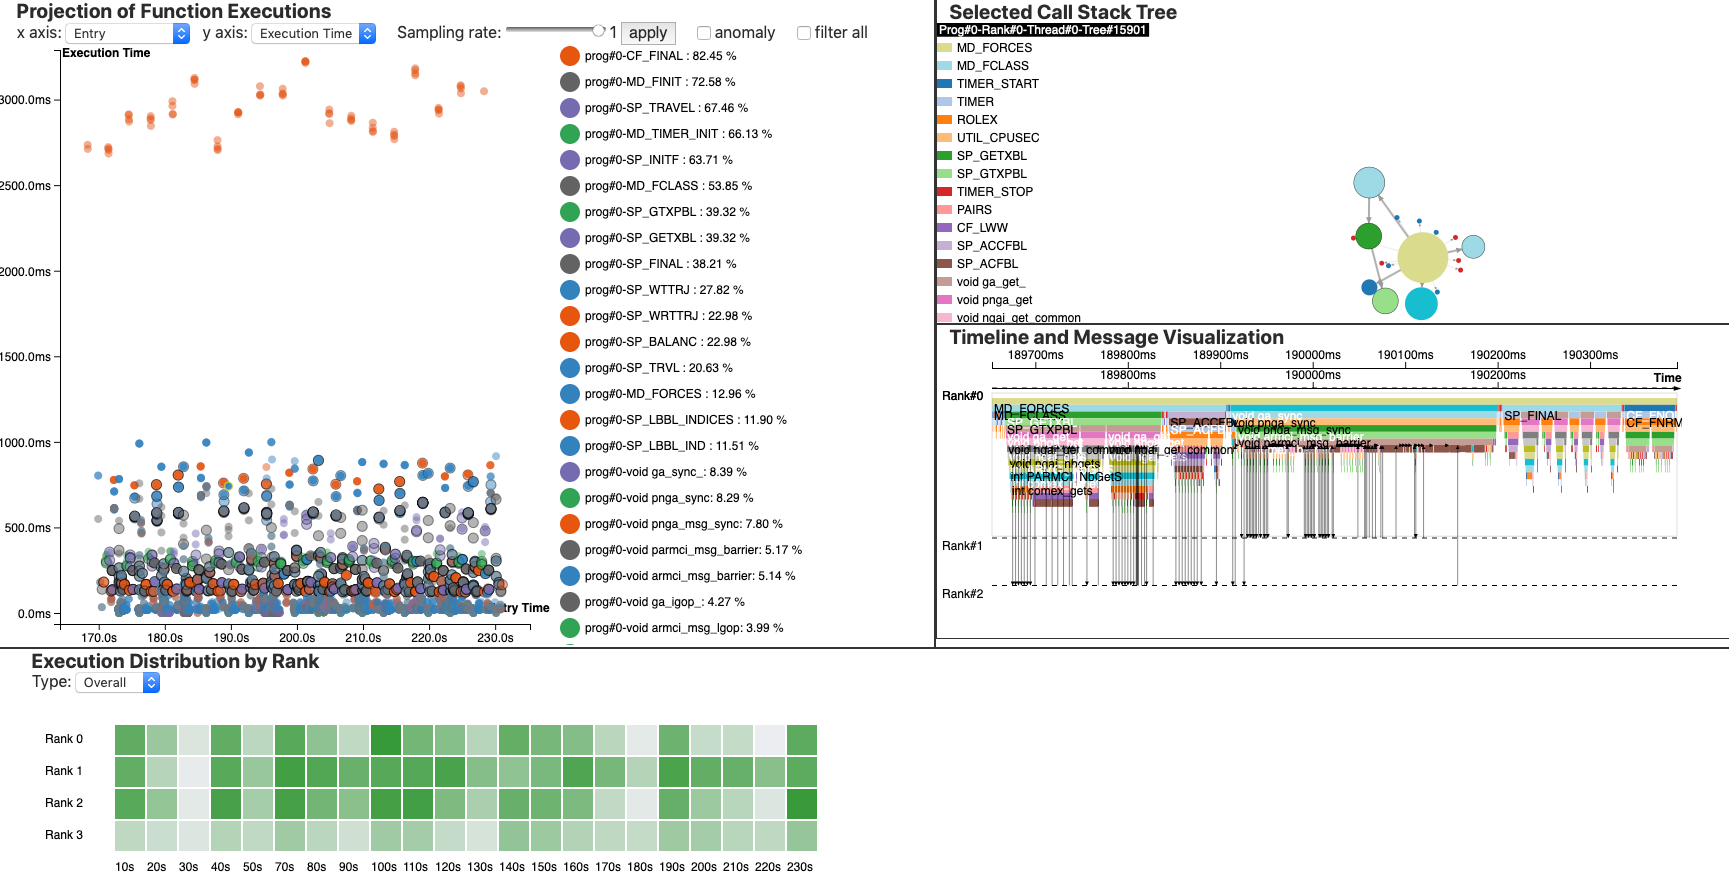
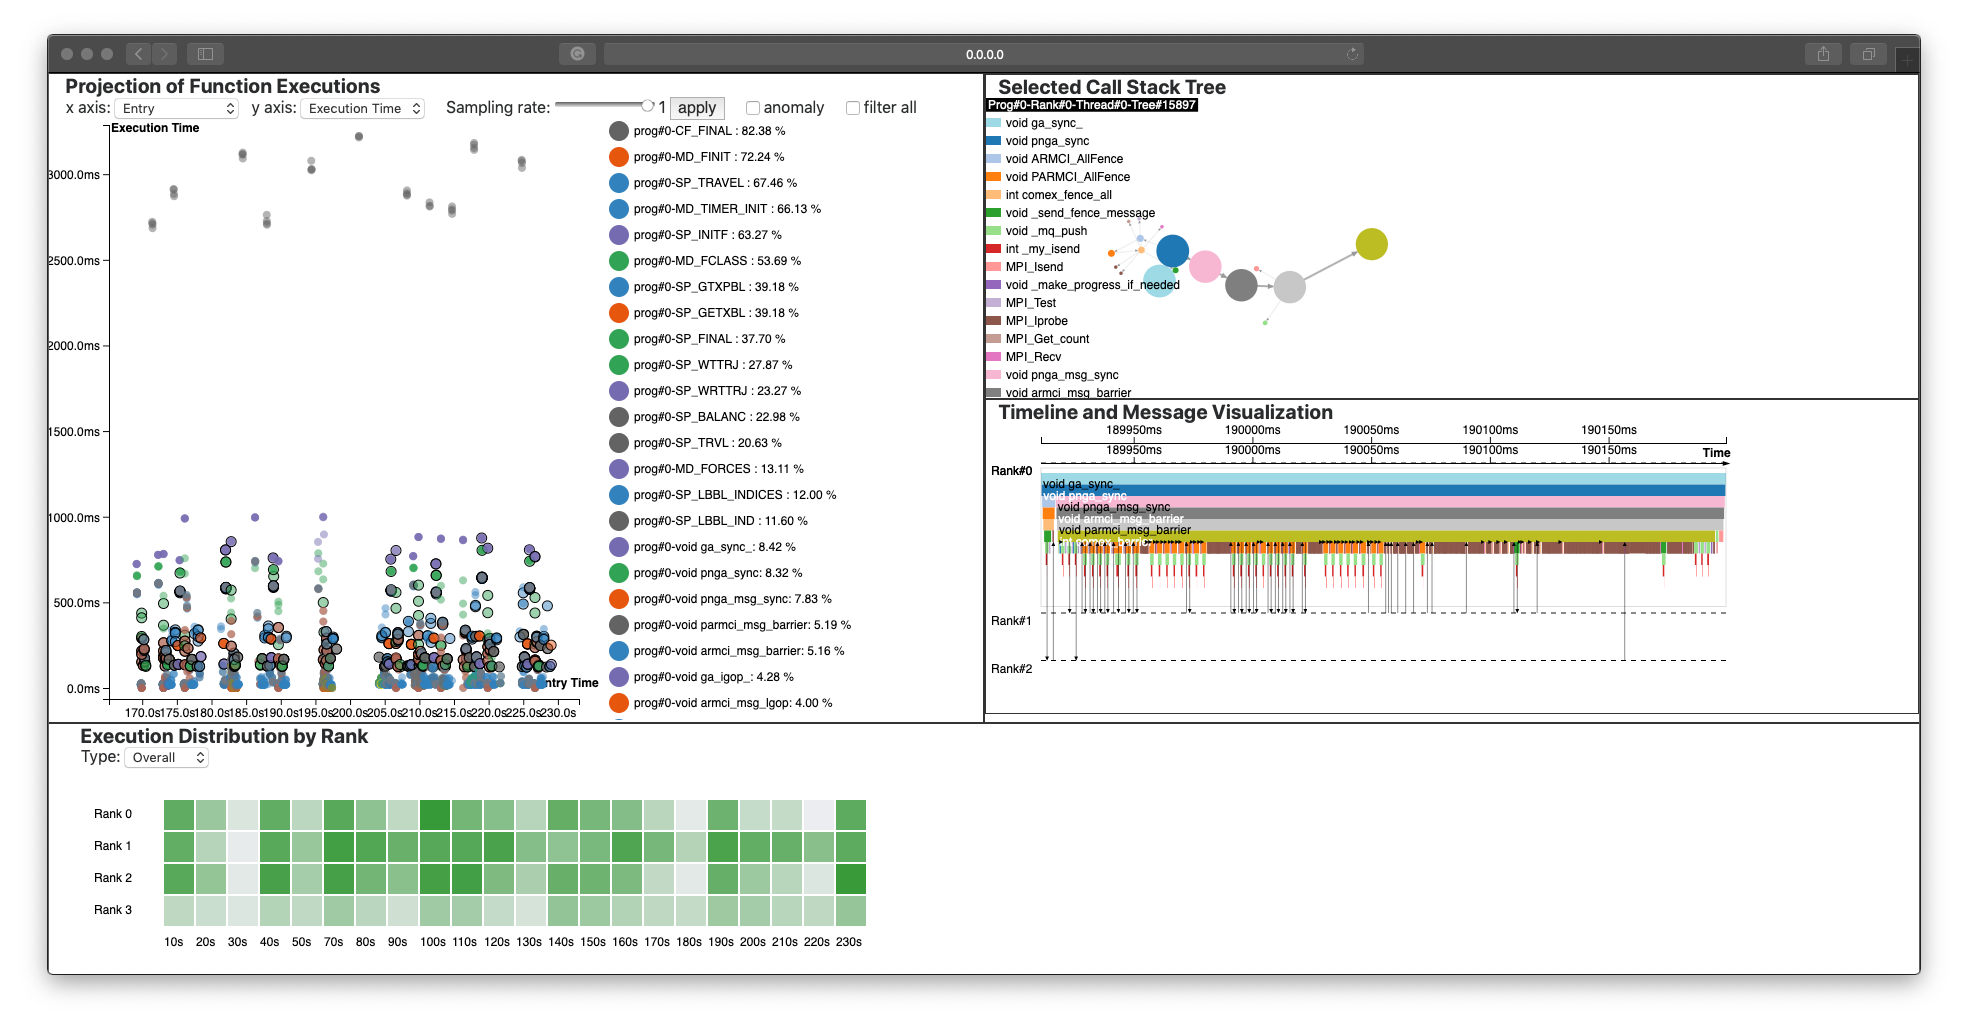
Add/modify some information

Changed region(s): [[0.0, 0.0, 0.9994, 1.0]]

diff --git a/README.md b/README.md
@@ -75,7 +75,7 @@ The visualization server accepts `POST` method requests to `localhost:5000/event
 
 - Reset/initialize the server:
 
-```json
+```javascript
 { 
     "type":"reset"
 }
@@ -83,7 +83,7 @@ The visualization server accepts `POST` method requests to `localhost:5000/event
 
 - Provide function names in order
 
-```json
+```javascript
 { 
     "type":"functions", 
     "value": ["function", "names", "in", "string", "type"]
@@ -92,7 +92,7 @@ The visualization server accepts `POST` method requests to `localhost:5000/event
 
 - Provide events types in order
 
-```json
+```javascript
 { 
     "type":"event_types", 
     "value": ["event", "types", "in", "string", "type"]
@@ -101,7 +101,7 @@ The visualization server accepts `POST` method requests to `localhost:5000/event
 
 - Provide trace information with the function of interest `foi` and anomaly functions `labels`:
 
-```json
+```javascript
 { 
     "type":"info",
     "value":{
@@ -144,6 +144,7 @@ The various filtering is also provided so that particular functions or only anom
 For a particular function execution, clicking the specific data point on the scatter plot will show detailed call stack information.
 
 ![Projection](./data/images/tree.png)
+![Projection](./data/images/cstrees.png)
 
 ### Timeline and Message Visualization
 The detailed timeline and message communication of a specific function can also be visualized. Dragging the timeline will focus on a particular interval.
